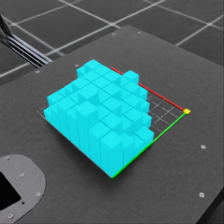
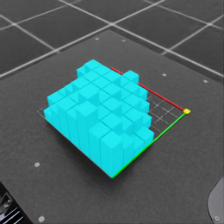
change env cube

diff --git a/IsaacLab/source/isaaclab_tasks/isaaclab_tasks/manager_based/manipulation/assembling/assembling_env_cfg.py b/IsaacLab/source/isaaclab_tasks/isaaclab_tasks/manager_based/manipulation/assembling/assembling_env_cfg.py
@@ -26,8 +26,8 @@ ASSEMBLING_MAX_CUBES = int(getattr(mdp, "DEFAULT_MAX_CUBES", 8))
 DEFAULT_GRID_ORIGIN: tuple[float, float, float] = (0.5, 0.0, 0.001)
 DEFAULT_GRID_SIZE = 8
 DEFAULT_GRID_LINE_THICKNESS = 0.001
-DEFAULT_GRID_CELL_SIZE = 0.055 + DEFAULT_GRID_LINE_THICKNESS
-DEFAULT_CUBE_SIZE = 0.0203 * 2.0
+DEFAULT_GRID_CELL_SIZE = 0.051
+DEFAULT_CUBE_SIZE = 0.05
 
 
 def _env_flag(name: str, default: bool) -> bool:
@@ -53,9 +53,24 @@ class ObjectTableSceneCfg(InteractiveSceneCfg):
         spawn=GroundPlaneCfg(),
     )
 
-    light = AssetBaseCfg(
-        prim_path="/World/light",
-        spawn=sim_utils.DomeLightCfg(color=(0.75, 0.75, 0.75), intensity=3000.0),
+    dome_light = AssetBaseCfg(
+        prim_path="/World/dome_light",
+        spawn=sim_utils.DomeLightCfg(
+            intensity=1500.0,
+            color=(1.0, 1.0, 1.0)
+        )
+    )
+
+    side_light = AssetBaseCfg(
+        prim_path="/World/side_light",
+        spawn=sim_utils.DistantLightCfg(
+            intensity=500.0,
+            angle=0.0,
+            color=(0.9, 0.9, 0.9)
+        ),
+        init_state=AssetBaseCfg.InitialStateCfg(
+            rot=(0.5, 0.5, 0.0, 0.0)
+        )
     )
 
     def __post_init__(self):
@@ -98,8 +113,8 @@ class ObjectTableSceneCfg(InteractiveSceneCfg):
                 AssetBaseCfg(
                     prim_path=f"{{ENV_REGEX_NS}}/grid_h{suffix}",
                     spawn=sim_utils.CuboidCfg(
-                        size=(grid_size * cell_size + line_thickness, line_thickness, 0.0002),
-                        visual_material=sim_utils.PreviewSurfaceCfg(diffuse_color=(0.1, 0.1, 0.1)),
+                        size=(grid_size * cell_size + line_thickness, line_thickness, 0.001),
+                        visual_material=sim_utils.PreviewSurfaceCfg(diffuse_color=(0.3, 0.3, 0.3)),
                         semantic_tags=[("class", "grid")],
                         collision_props=None,
                     ),
@@ -114,8 +129,8 @@ class ObjectTableSceneCfg(InteractiveSceneCfg):
                 AssetBaseCfg(
                     prim_path=f"{{ENV_REGEX_NS}}/grid_v{suffix}",
                     spawn=sim_utils.CuboidCfg(
-                        size=(line_thickness, grid_size * cell_size + line_thickness, 0.0002),
-                        visual_material=sim_utils.PreviewSurfaceCfg(diffuse_color=(0.1, 0.1, 0.1)),
+                        size=(line_thickness, grid_size * cell_size + line_thickness, 0.001),
+                        visual_material=sim_utils.PreviewSurfaceCfg(diffuse_color=(0.3, 0.3, 0.3)),
                         semantic_tags=[("class", "grid")],
                         collision_props=None,
                     ),
@@ -129,7 +144,7 @@ class ObjectTableSceneCfg(InteractiveSceneCfg):
             AssetBaseCfg(
                 prim_path="{ENV_REGEX_NS}/grid_x_axis",
                 spawn=sim_utils.CuboidCfg(
-                    size=(grid_size * cell_size + line_thickness, line_thickness * 3.0, 0.0004),
+                    size=(grid_size * cell_size + line_thickness, line_thickness * 4.0, 0.003),
                     visual_material=sim_utils.PreviewSurfaceCfg(diffuse_color=(1.0, 0.0, 0.0)),
                     semantic_tags=[("class", "grid_axis")],
                     collision_props=None,
@@ -143,7 +158,7 @@ class ObjectTableSceneCfg(InteractiveSceneCfg):
             AssetBaseCfg(
                 prim_path="{ENV_REGEX_NS}/grid_y_axis",
                 spawn=sim_utils.CuboidCfg(
-                    size=(line_thickness * 3.0, grid_size * cell_size + line_thickness, 0.0004),
+                    size=(line_thickness * 4.0, grid_size * cell_size + line_thickness, 0.003),
                     visual_material=sim_utils.PreviewSurfaceCfg(diffuse_color=(0.0, 1.0, 0.0)),
                     semantic_tags=[("class", "grid_axis")],
                     collision_props=None,
@@ -157,7 +172,7 @@ class ObjectTableSceneCfg(InteractiveSceneCfg):
             AssetBaseCfg(
                 prim_path="{ENV_REGEX_NS}/grid_origin_marker",
                 spawn=sim_utils.CuboidCfg(
-                    size=(0.02, 0.02, 0.0006),
+                    size=(0.018, 0.018, 0.006),
                     visual_material=sim_utils.PreviewSurfaceCfg(diffuse_color=(1.0, 1.0, 0.0)),
                     semantic_tags=[("class", "grid_origin")],
                     collision_props=None,

diff --git a/IsaacLab/source/isaaclab_tasks/isaaclab_tasks/manager_based/manipulation/assembling/mdp/cameras.py b/IsaacLab/source/isaaclab_tasks/isaaclab_tasks/manager_based/manipulation/assembling/mdp/cameras.py
@@ -23,11 +23,19 @@ _LEGACY_CAMERA_NAMES = ("table_cam", "table_high_cam", "robot_cam", "cam_default
 def _stack_camera_layout(cube_size: float) -> dict[str, dict[str, tuple[float, ...]]]:
     table_height = 1.03
     camera_height = 0.7
+    cube_size = float(cube_size)
+    
     return {
-        "camera": {"pos": (0.0, 0.0, table_height + camera_height + 0.5), "rot": (0.707, 0.0, 0.707, 0.0)},
-        "camera_front": {"pos": (camera_height, 0.0, table_height + cube_size * 2), "rot": (0.0, 0.0, 0.0, 1.0)},
+        "camera": {
+            "pos": (0.0, 0.0, table_height + camera_height), 
+            "rot": (0.707, 0.0, 0.707, 0.0)
+        },
+        "camera_front": {
+            "pos": (camera_height, 0.0, table_height + cube_size * 4), 
+            "rot": (0.0, 0.0, 0.0, 1.0)
+        },
         "camera_side": {
-            "pos": (0.0, camera_height, table_height + cube_size * 2),
+            "pos": (0.0, camera_height, table_height + cube_size * 4),
             "rot": (0.707, 0.0, 0.0, -0.707),
         },
         "camera_iso": {
@@ -145,4 +153,29 @@ def camera_image(
             images = (images + 1.0) * 0.5
 
     return images.clone()
+
+
+def setup_orthographic_cameras_event(
+    env: ManagerBasedEnv,
+    env_ids: torch.Tensor,
+) -> None:
+    """Force specified cameras to use orthographic projection via USD APIs."""
+    from pxr import UsdGeom
+
+    if not hasattr(env, "sim") or not hasattr(env.sim, "stage"):
+        return
+
+    sim = env.sim
+    num_envs = env.num_envs
+    ortho_cameras = ["camera", "camera_front", "camera_side"]
+
+    for env_idx in range(num_envs):
+        for cam_name in ortho_cameras:
+            cam_path = f"/World/envs/env_{env_idx}/{cam_name}"
+            prim = sim.stage.GetPrimAtPath(cam_path)
+            if prim.IsValid():
+                cam_prim = UsdGeom.Camera(prim)
+                cam_prim.GetProjectionAttr().Set(UsdGeom.Tokens.orthographic)
+                cam_prim.GetHorizontalApertureAttr().Set(4.2)
+                cam_prim.GetVerticalApertureAttr().Set(4.2)
 

diff --git a/IsaacLab/source/isaaclab_tasks/isaaclab_tasks/manager_based/manipulation/assembling/mdp/cube_setup.py b/IsaacLab/source/isaaclab_tasks/isaaclab_tasks/manager_based/manipulation/assembling/mdp/cube_setup.py
@@ -5,6 +5,7 @@
 
 from __future__ import annotations
 
+import os
 import copy
 import math
 
@@ -13,7 +14,7 @@ from isaaclab.assets import RigidObjectCfg
 from isaaclab.sim.schemas.schemas_cfg import CollisionPropertiesCfg, MassPropertiesCfg, RigidBodyPropertiesCfg
 from isaaclab.sim.spawners.from_files.from_files_cfg import UsdFileCfg
 
-DEFAULT_CUBE_SIZE = 0.0203 * 2.0
+DEFAULT_CUBE_SIZE = 0.05
 
 
 def build_default_cube_spawn_settings(
@@ -179,10 +180,10 @@ def configure_server_cube_layout(
     collision_enabled: bool | None = None,
 ) -> list[str]:
     _, grid_size, _, _ = scene_cfg.get_grid_spec()
-    blue_usd = scene_cfg.resolve_asset_path(
-        local_rel="Props/Blocks/blue_block.usd",
-        nucleus_rel="Props/Blocks/blue_block.usd",
-    )
+    blue_usd = os.path.abspath(os.path.join(
+        os.path.dirname(__file__), 
+        "../../../../../../../../assets/dataset_v2/bordered_blue_block.usda"
+    ))
     template_cube_cfg = RigidObjectCfg(
         prim_path="{ENV_REGEX_NS}/Cube_1",
         init_state=RigidObjectCfg.InitialStateCfg(pos=[0.0, 0.0, -10.0], rot=[1.0, 0.0, 0.0, 0.0]),

diff --git a/IsaacLab/scripts/data_gen_v2/step2_render_images_single_v2.py b/IsaacLab/scripts/data_gen_v2/step2_render_images_single_v2.py
@@ -136,8 +136,8 @@ class SnapshotSceneCfg(InteractiveSceneCfg):
             usd_path=f"{ISAAC_NUCLEUS_DIR}/Props/Mounts/SeattleLabTable/table.usd",
         ),
         init_state=AssetBaseCfg.InitialStateCfg(
-            pos=(0.0, -0.1, TABLE_HEIGHT), 
-            rot=(1.0, 0.0, 0.0, 0.0), 
+            pos=(0.0, 0.0, TABLE_HEIGHT), 
+            rot=(0.707, 0, 0, 0.707), 
         ),
     )
 

diff --git a/IsaacLab/source/isaaclab_tasks/isaaclab_tasks/manager_based/manipulation/assembling/config/franka_stack_env_cfg.py b/IsaacLab/source/isaaclab_tasks/isaaclab_tasks/manager_based/manipulation/assembling/config/franka_stack_env_cfg.py
@@ -100,6 +100,11 @@ class FrankaStackEventsCfg(EventsCfg):
         mode="reset",
         params={"default_pose": list(mdp.DEFAULT_FRANKA_RESET_POSE)},
     )
+    
+    setup_orthographic_cameras = EventTerm(
+        func=mdp.setup_orthographic_cameras_event,
+        mode="startup",
+    )
 
     setup_cubes_startup = EventTerm(
         func=mdp.place_cubes_event,
